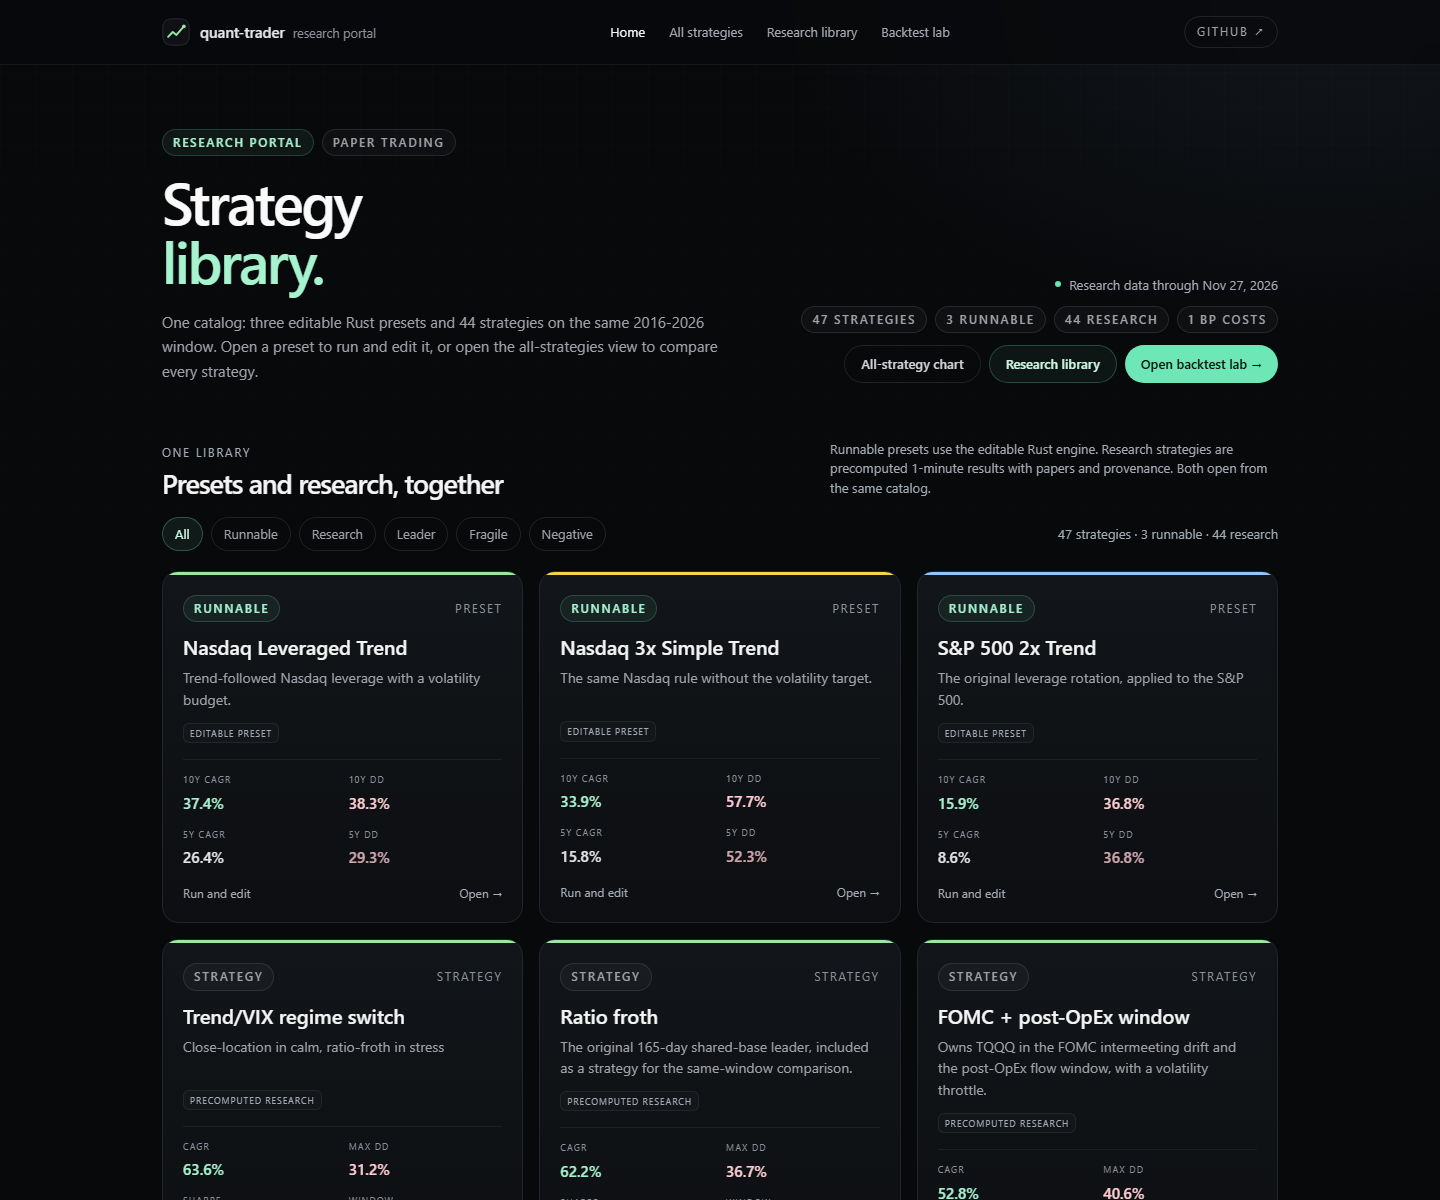
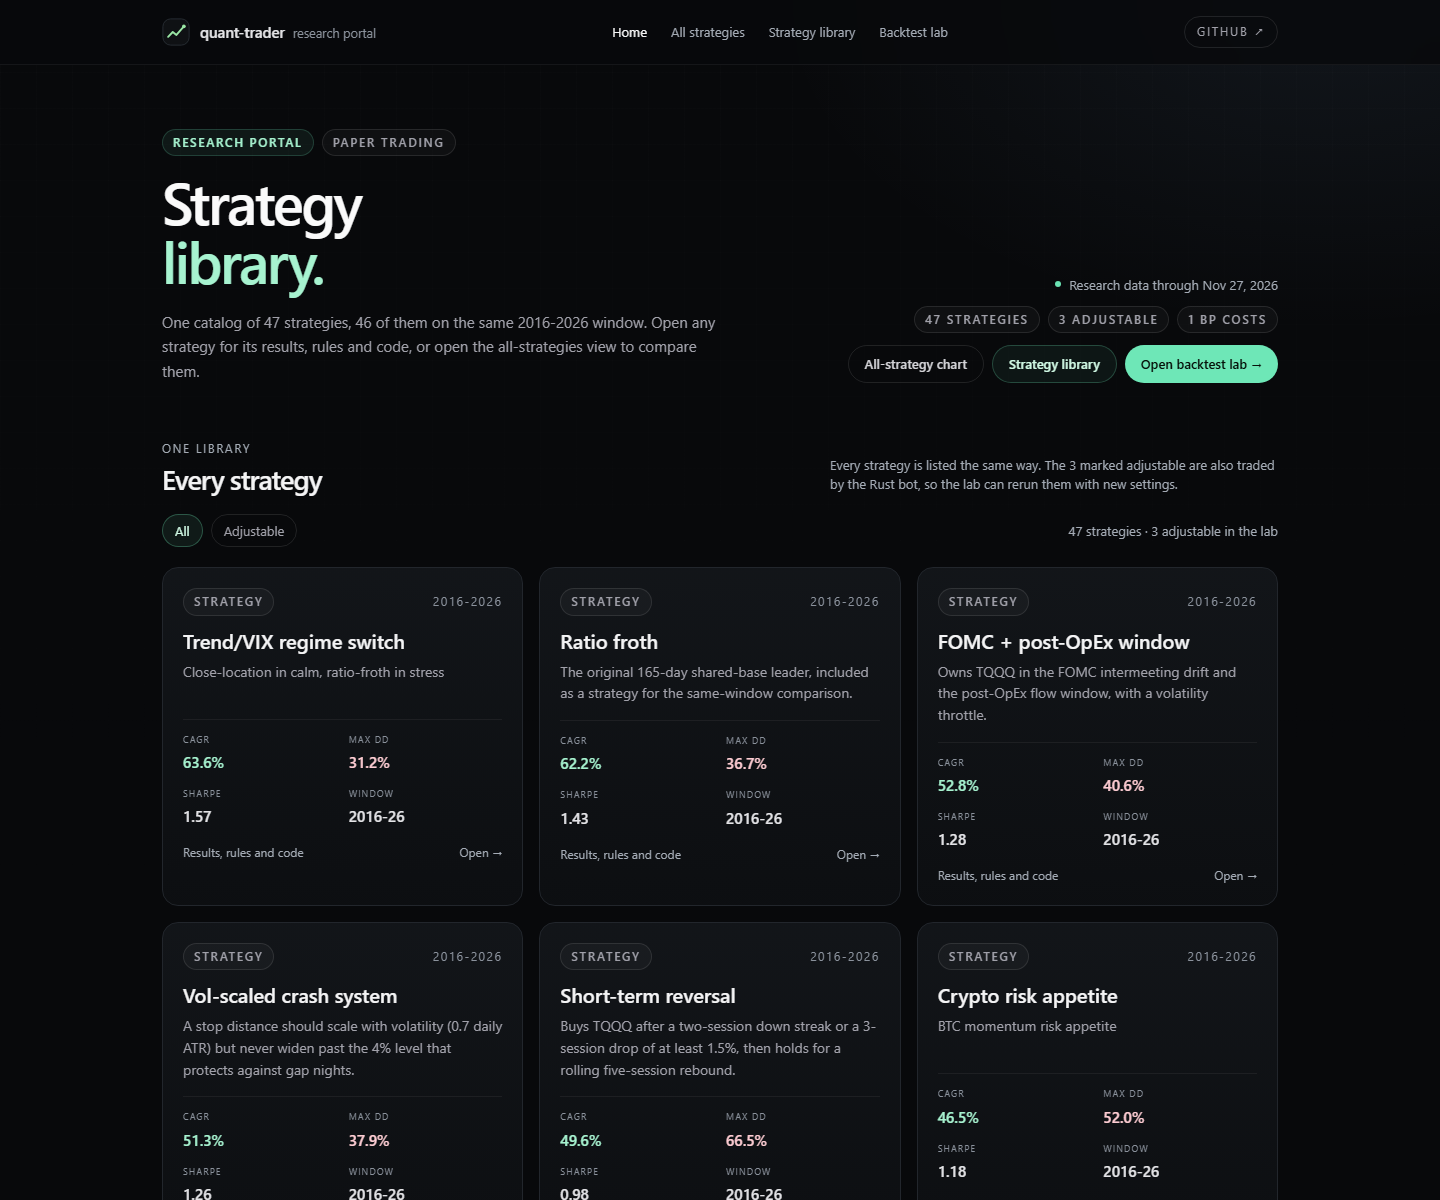
Remove colored top bars from home strategy cards

diff --git a/web/components/strategy-catalog.tsx b/web/components/strategy-catalog.tsx
@@ -7,9 +7,7 @@ import { Pill } from "./ui";
 type CatalogItem = {
   id: string;
   slug: string;
-  kind: "preset" | "research" | "blend";
   name: string;
-  group: string;
   status: string;
   tagline: string;
   summary: string;
@@ -19,24 +17,17 @@ type CatalogItem = {
   dd?: number;
   sharpe?: number;
   href: string;
-  runnable: boolean;
+  /** Has a bot.toml: the Rust bot trades it and the lab can rerun it with new settings. */
+  adjustable: boolean;
   accent: string;
   tags: string[];
-  papersCount: number;
-  provenanceCount: number;
 };
 
-const FILTERS = ["All", "Runnable", "Research", "Leader", "Fragile", "Negative"] as const;
+const FILTERS = ["All", "Adjustable"] as const;
 type Filter = (typeof FILTERS)[number];
 
 const TONE: Record<string, "green" | "blue" | "amber" | "red" | "neutral"> = {
-  Leader: "green",
-  Verified: "green",
-  Runnable: "green",
-  Alternative: "blue",
-  Blend: "blue",
-  Fragile: "amber",
-  Negative: "red",
+  Adjustable: "green",
 };
 
 export function StrategyCatalog() {
@@ -44,7 +35,7 @@ export function StrategyCatalog() {
   const [filter, setFilter] = useState<Filter>("All");
 
   useEffect(() => {
-    fetch("/data/catalog/strategies.json?v=2026-11-28-44c")
+    fetch("/data/catalog/strategies.json?v=2026-11-28-47")
       .then((response) => response.json() as Promise<{ strategies: CatalogItem[] }>)
       .then((payload) => setItems(payload.strategies))
       .catch(() => setItems([]));
@@ -53,17 +44,14 @@ export function StrategyCatalog() {
   const filtered = useMemo(() => {
     if (!items) return [];
     if (filter === "All") return items;
-    if (filter === "Runnable") return items.filter((item) => item.runnable);
-    if (filter === "Research") return items.filter((item) => item.kind !== "preset");
-    return items.filter((item) => item.status === filter);
+    return items.filter((item) => item.adjustable);
   }, [items, filter]);
 
   if (!items) {
     return <div className="h-[280px] animate-pulse rounded-2xl bg-white/[0.02]" />;
   }
 
-  const presets = items.filter((item) => item.runnable).length;
-  const research = items.length - presets;
+  const adjustable = items.filter((item) => item.adjustable).length;
 
   return (
     <div>
@@ -84,7 +72,7 @@ export function StrategyCatalog() {
           ))}
         </div>
         <div className="text-[11px] text-zinc-500">
-          {items.length} strategies · {presets} runnable · {research} research
+          {items.length} strategies · {adjustable} adjustable in the lab
         </div>
       </div>
 
@@ -95,12 +83,11 @@ export function StrategyCatalog() {
             href={item.href}
             className="group panel flex flex-col overflow-hidden transition hover:border-white/20"
           >
-            <div className="h-[3px] w-full" style={{ background: item.accent }} />
             <div className="flex flex-1 flex-col p-5">
               <div className="flex items-center justify-between gap-2">
                 <Pill tone={TONE[item.status] ?? "neutral"}>{item.status}</Pill>
                 <span className="text-[10px] uppercase tracking-[0.12em] text-zinc-600">
-                  {item.group}
+                  {item.window === "2016-2026" ? "2016-2026" : "10y / 5y"}
                 </span>
               </div>
               <h3 className="mt-3 text-[1.25rem] font-semibold leading-tight text-zinc-100">
@@ -109,16 +96,6 @@ export function StrategyCatalog() {
               <p className="mt-2 min-h-[42px] text-[12px] leading-relaxed text-zinc-400">
                 {item.tagline}
               </p>
-              <div className="mt-3 flex flex-wrap gap-1.5">
-                <span className="rounded-md border border-white/[0.07] bg-white/[0.02] px-1.5 py-0.5 text-[9px] uppercase tracking-[0.1em] text-zinc-500">
-                  {item.runnable ? "Editable preset" : "Precomputed research"}
-                </span>
-                {item.provenanceCount > 0 ? (
-                  <span className="rounded-md border border-white/[0.07] bg-white/[0.02] px-1.5 py-0.5 text-[9px] uppercase tracking-[0.1em] text-zinc-500">
-                    {item.provenanceCount} sources
-                  </span>
-                ) : null}
-              </div>
               <div className="mt-4 grid grid-cols-2 gap-3 border-t border-white/[0.06] pt-3">
                 {item.window === "2016-2026" ? (
                   <>
@@ -137,7 +114,7 @@ export function StrategyCatalog() {
                 )}
               </div>
               <div className="mt-4 flex items-center justify-between text-[10px] text-zinc-500">
-                <span>{item.runnable ? "Run and edit" : "Open research"}</span>
+                <span>{item.adjustable ? "Adjust and rerun" : "Results, rules and code"}</span>
                 <span className="transition group-hover:text-zinc-200">Open →</span>
               </div>
             </div>
